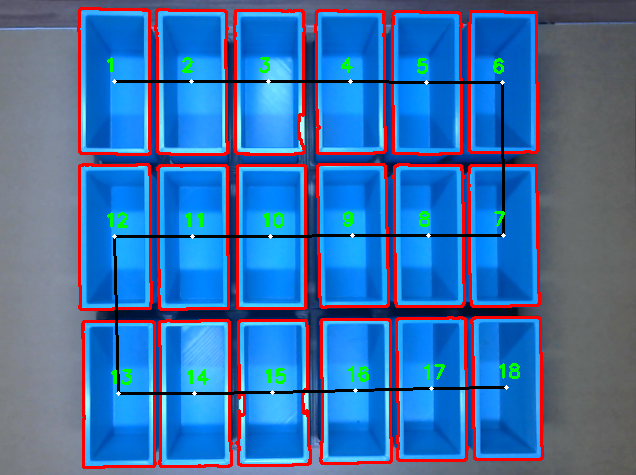
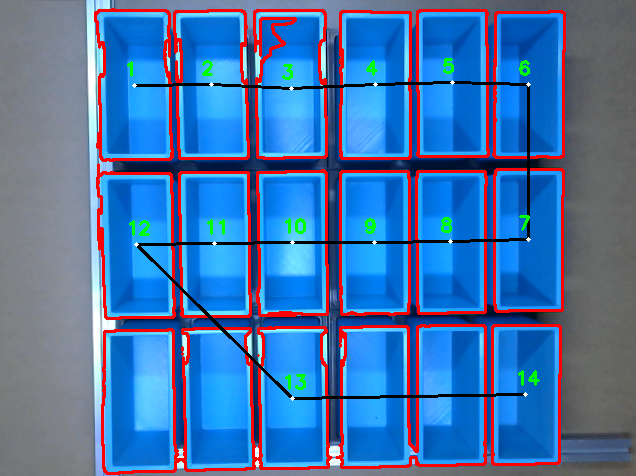
PC

diff --git a/MainPackage/ImageProcessing/TrayFinder3.py b/MainPackage/ImageProcessing/TrayFinder3.py
@@ -217,7 +217,7 @@ class TrayFinder:
 if __name__ == '__main__':
     paths = glob.glob("MainPackage\ImageProcessing\images\*.png")
     count = 0
-    testing = TrayFinder(paths[1])
+    testing = TrayFinder(paths[2])
     testing.Undistorted(testing.image)
     # testing.ShowImage('raw image', image=testing.image)
     testing.FindMidpoint()
@@ -225,9 +225,9 @@ if __name__ == '__main__':
     testing.Save_Image('result.png', image=testing.contoured_image)
     print(type(testing.merr))
     points= []
-    for i in range(len(testing.merr)):
+    # for i in range(len(testing.merr)):
         # print(type(testing.merr[i].tolist()))
-        points.append(testing.merr[i].tolist())
+        # points.append(testing.merr[i].tolist())
     # print(points.shape)
     new_points = testing.Find_Closest(points)
     testing.export_points(points= testing.points, name='points.csv')
